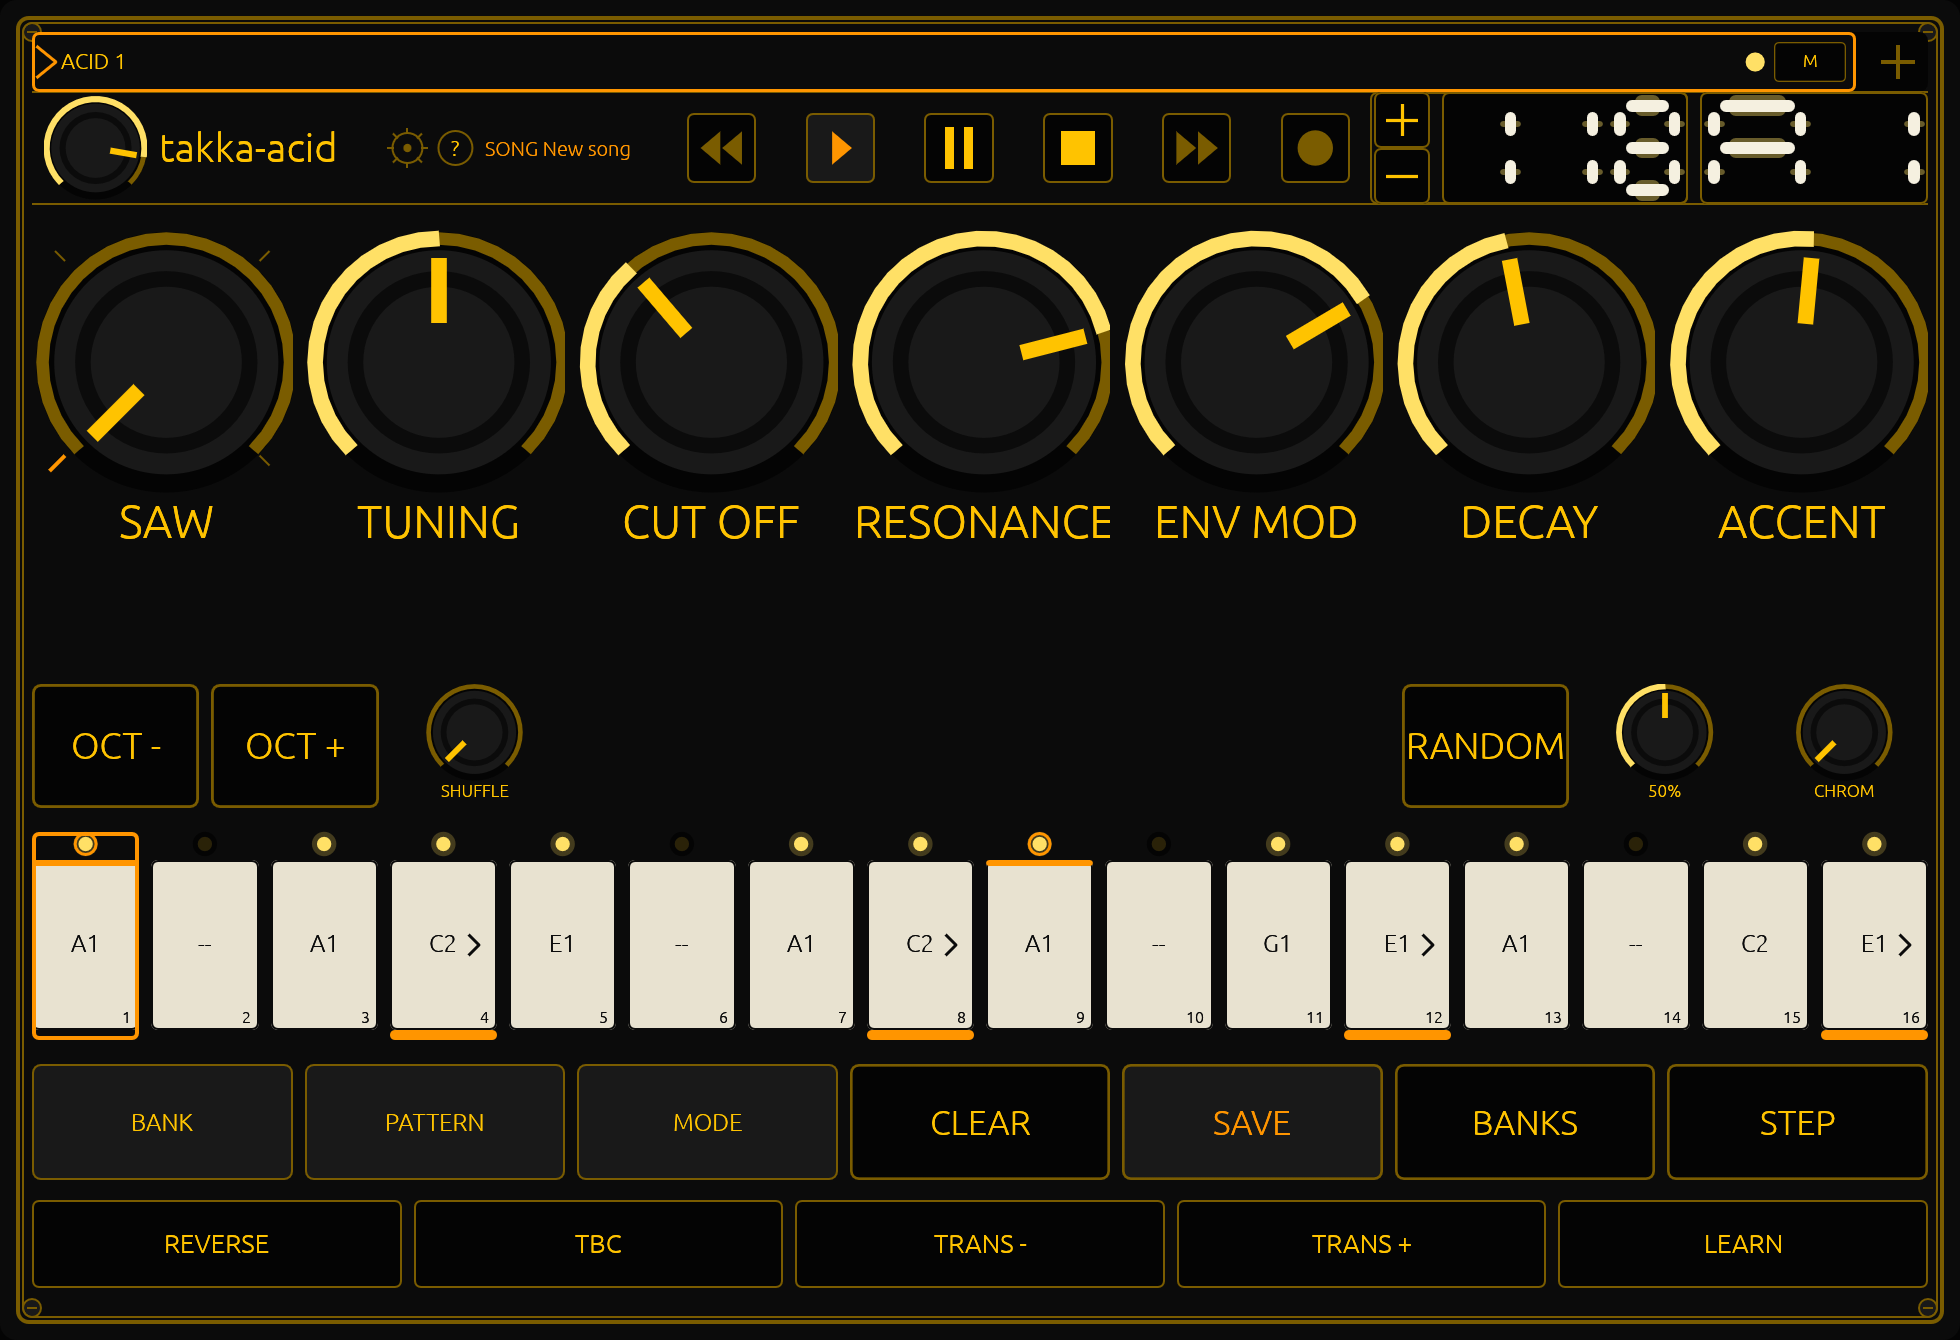
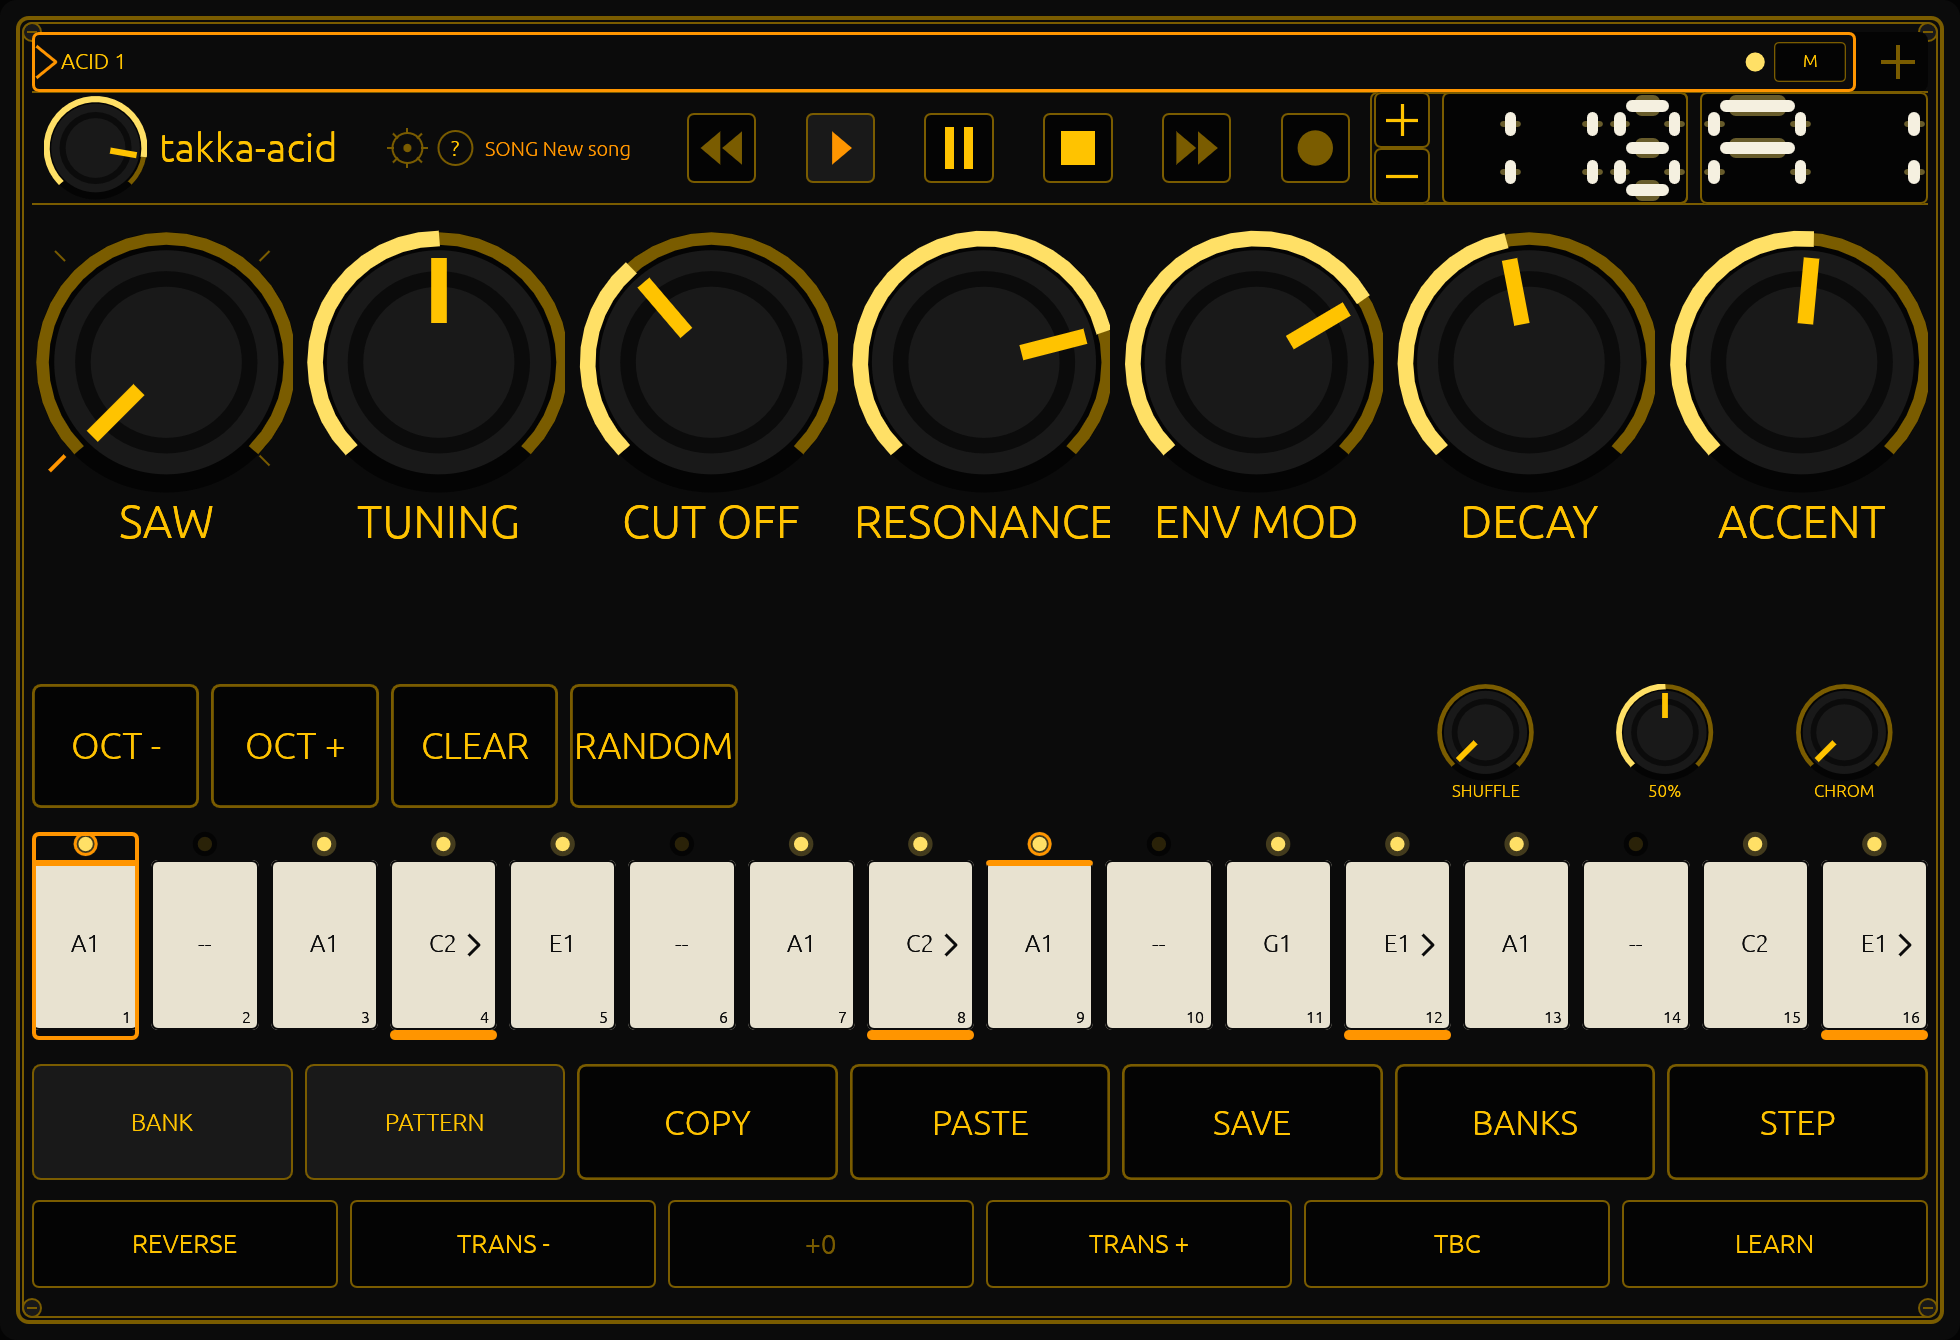
docs(guide): the book describes the instrument the phase built
The phase review's fifth P1, and its list read as a work order.

Every sentence it named now matches the code: the deck is the transport (03, 04, 09, 17, 18), pause is a state and space is
play/pause (09, 17, 20), the transpose and its readout are the bottom row's (04, 20), the session name carries the save state in
its colour and there is no word (03, 04, 10, 20), `BANKS` replaced `SONGS` everywhere including the browser's own sections (04,
05, 12, 20), and the keyboard table gains `,` `.` `R` as drawn-but-unwired with the deck's `PLAY`/`PAUSE` owning the space bar.

`check.sh` gained the facts that make a regression fail: `BANKS`, `PAUSE`, `REVERSE`, `TRANS -`, `COPY`, `PASTE`.

Pictures: `songs-card.png` is `banks-card.png` and retaken (its title, `DEMO BANKS`, `MY BANKS`), and first-sound, running, the
bottom row and the switch row are retaken at 1960 x 1340 to match the two-row keypad.

And the retake caught a real bug: the clickable session name used `song-name`, the id the card's name field already owned, so
egui drew its **widget-id collision** warning over the card. The name is `song-title` now, and the picture is the proof.

diff --git a/rust/crates/acid-app/src/ui/mod.rs b/rust/crates/acid-app/src/ui/mod.rs
@@ -549,7 +549,11 @@ pub fn draw_panel(state: &mut PanelState, shared: &SharedState, ui: &mut egui::U
         };
         // The name is a door as well as a label: the bank browser is how a session is loaded and saved, and the icons that
         // used to open it were cut in round 3a for room the deck needed. A label that answers a click is the cheapest way back in.
-        let response = ui.interact(label, ui.scope_id().with("song-name"), egui::Sense::click());
+        let response = ui.interact(
+            label,
+            ui.scope_id().with("song-title"),
+            egui::Sense::click(),
+        );
         if response.hovered() {
             response
                 .clone()

diff --git a/docs/guide/src/20-reference.md b/docs/guide/src/20-reference.md
@@ -30,7 +30,10 @@ Three tables and the files: every gesture, the factory controller map, and the w
 |---|---|
 | `A W S E D F T G Y H U J K` | play a chromatic scale; with `shift` or `STEP`, write the note to the selected step |
 | `Z` / `X` | octave down / up, two either way |
-| `space` | start / stop, same as `RUN` / `STOP` |
+| `space` | play / pause, same as `PLAY` / `PAUSE` |
+| `,` | step the playhead back a bar (drawn, not wired yet) |
+| `.` | step the playhead on a bar (drawn, not wired yet) |
+| `R` | record (drawn, not wired yet) |
 | `left` / `right` | move the selection one step |
 | `shift+left` / `shift+right` | previous / next pattern |
 | `shift+up` / `shift+down` | note up / down a step |
@@ -42,9 +45,10 @@ Three tables and the files: every gesture, the factory controller map, and the w
 | `F3`, or the caret on the selected cell | the device card |
 | `Ctrl+1` … `Ctrl+4` | put that device on the panel |
 | `Ctrl+C` / `Ctrl+V` | copy the pattern on the panel / paste one into it |
-| `escape` | close the topmost card — the picker, the device card, settings, help, the songs card — then give up on a `LEARN` |
+| `escape` | close the topmost card — the picker, the device card, settings, help, the bank browser — then give up on a `LEARN` |
 
-**The panel's own keys:** `RUN` `STOP` `TEMPO -` `TEMPO +` `LEARN` on the transport row; `CLEAR` `SAVE` `SONGS` `STEP` in
+**The panel's own keys:** `REVERSE` `TRANS -` `TRANS +` `TBC` `LEARN` in the bottom row; `CLEAR` `RANDOM` in the performance row
+beside the octave keys; `SAVE` `BANKS` `STEP` `COPY` `PASTE` in
 the switch row (`BANK` `PATTERN` `MODE` are engraved and do nothing yet); `OCT -` `OCT +` `RANDOM` on the performance row.
 **The strip above the panel:** a click on a cell selects that device, its `M` mutes it, and `+` at the right end adds one.
 
@@ -74,12 +78,13 @@ has to be reached before it takes over.
 **The strip** above the top strip holds a cell per device: its name, a lamp while it runs, its `M` mute, and `+` at the
 right end.
 
-**The top strip** holds four things: the lamp inside the wordmark's corner, the song name in the band's left cluster, its plate lit while unsaved, the whole name and its state in its tooltip, and the pattern
+**The top strip** holds the volume knob and the wordmark, the settings gear and the help dot, the song name — amber while unsaved,
+plain silk once written, the whole name and its state in its tooltip — the tape deck, the tempo stepper, and the pattern
 and tempo wells at the right.
 
 | Word | Where | Meaning |
 |---|---|---|
-| `SAVED` / `UNSAVED` | by the wordmark | whether what is on screen is on disk |
+| the song name's colour | after the `?` | amber: unsaved; plain silk: on disk |
 | `SONG <name>` | the middle | the session's name; `SONG untitled` when it has none |
 | a notice | the middle | something just happened — `saved Acid 2`, `saved a copy as Acid 2`, `could not import: …` — for a few seconds, then the name returns |
 | `A1` … `H8` | the pattern well | the pattern playing |
@@ -124,7 +129,7 @@ OFF` / `MUTE ON`, `REMOVE`, `CLOSE`.
 | `failed: <reason>` | the stream is not running, and why |
 | `CLOSE` | put the card away |
 
-**The songs card:** `SONGS`, `DEMO SONGS`, `MY SONGS`, `SAVE`, `SAVE A COPY`, `NEW`, `IMPORT`, `EXPORT`, `CLOSE`, and the
+**The bank browser:** `BANKS`, `DEMO BANKS`, `MY BANKS`, `SAVE`, `SAVE A COPY`, `NEW`, `IMPORT`, `EXPORT`, `CLOSE`, and the
 `x` / `SURE` on each of your own rows.
 
 **The help card** has four sections — `STEPS`, `KEYBOARD`, `MIDI`, `NOTES`.

diff --git a/docs/guide/src/03-first-sound.md b/docs/guide/src/03-first-sound.md
@@ -3,19 +3,20 @@
 Start it as [`02-install`](02-install.md) says. The window opens on a line that already plays: the **Slow Acid** demo, loaded under the
 name a new song starts with, `SONG New song`.
 
-Nothing about that line is on disk yet. The strip says so in one word, **`UNSAVED`**, sitting just right of the wordmark
+Nothing about that line is on disk yet. The song name says so by its colour — amber while there are unsaved changes, plain
+silk once it is written — sitting in the band's left cluster, after the `?`
 `takka-acid`, with the gear and the `?` beside it. That word is the only thing on the face the machine uses to tell you
 whether your work is safe, so learn to glance at it:
 
-- `UNSAVED` — you have changed something since the last save. The session is written when you close the app, so a lost
+- the name in **amber** — you have changed something since the last save. The session is written when you close the app, so a lost
   session means it was lost there — by a crash, or by a kill — not by leaving the window open.
-- `SAVED` — what is on screen is what is on disk.
+- the name in **plain silk** — what is on screen is what is on disk.
 
 ## Make it play
 
-Press **`RUN`**, in the bottom row, or press the space bar — `SPACE` is the same key as `RUN` / `STOP`.
+Press **`PLAY`**, in the tape deck at the top of the panel, or press the space bar — `SPACE` plays and pauses.
 
-The line starts. `RUN` stays lit while it plays and `STOP` lights instead the moment you stop it. Press `SPACE` again to
+The line starts. `PLAY` stays lit while it plays and `PAUSE` lights instead the moment you pause it. Press `SPACE` again to
 stop: the line holds where it is, and the next start begins from the top of the bar.
 
 That is the entire first lesson. The demo is a real pattern: you can pull it apart step by step, change the sound under
@@ -28,7 +29,7 @@ things ask twice:
 
 - **`CLEAR`** empties the pattern. The first click arms it — the key reads `CLEAR?` for a few seconds — and a second
   click inside that window empties it. Editing a step drops the arm: a confirmation is about the pattern as it was.
-- **`NEW`**, in the songs card, throws away the session and starts from the starter phrase. While your session is
+- **`NEW`**, in the bank browser, throws away the session and starts from the starter phrase. While your session is
   unsaved it asks `SURE?` first.
 - **Loading** a song over an unsaved session, and **deleting** a song, each take a second click as well.
 

diff --git a/docs/guide/src/04-the-face.md b/docs/guide/src/04-the-face.md
@@ -18,7 +18,8 @@ another. [`18-a-rack-of-devices`](18-a-rack-of-devices.md) is that page.
 
 - **The volume knob**, in the left corner, standing alone — the level out of the machine, not part of the sound.
 - **The wordmark** `takka-acid`.
-- **`SAVED` / `UNSAVED`**, the lamp: whether what you see is on disk. [`03-first-sound`](03-first-sound.md) explains the two words.
+- **the song name**, in the band's left cluster: amber while you have unsaved changes, plain silk once the session is on
+  disk. [`03-first-sound`](03-first-sound.md) explains the two states.
 - **The gear** and the **`?`** — the two round keys that open the settings card and the help card.
 - **`SONG`** and the session's name, in the band's left cluster, on a lit plate while there are unsaved changes. It is the song's name, not a file path; a session with no name shows
   what a new song is called.
@@ -55,7 +56,7 @@ nothing for it to glide into.
 ![The switches](img/switches.png)
 
 Seven keys. Four of them work today: **`CLEAR`** empties the pattern (in two clicks), **`SAVE`** writes it to disk,
-**`SONGS`** opens the songs card, and **`STEP`** turns on the mode where the computer keyboard types a line instead of
+**`BANKS`** opens the bank browser, and **`STEP`** turns on the mode where the computer keyboard types a line instead of
 playing it. The other three — **`BANK`**, **`PATTERN`** and **`MODE`** — are engraved and silent: there is nothing behind
 them yet, and the bank is moved from the keyboard or a learned controller instead ([`11-the-bank`](11-the-bank.md)).
 
@@ -63,7 +64,8 @@ them yet, and the bank is moved from the keyboard or a learned controller instea
 
 ![The transport](img/transport.png)
 
-**`RUN`**, **`STOP`**, **`TEMPO -`**, **`TEMPO +`**, **`LEARN`**. The first four are the clock; `LEARN` is how a MIDI
+**`REVERSE`**, **`TRANS -`**, **`TRANS +`**, the transpose's readout between them, **`TBC`** and **`LEARN`**. The first two are
+this device's direction and the rack's transpose; `LEARN` is how a MIDI
 controller gets taught a control ([`14-midi`](14-midi.md)).
 
 ## The panel is one piece, and it scales

diff --git a/docs/guide/src/12-songs-and-demos.md b/docs/guide/src/12-songs-and-demos.md
@@ -1,15 +1,15 @@
 # Songs and demos
 
-`SONGS` opens the card that keeps your work: a name field with `SAVE` and `SAVE A COPY` beside it, two lists, and four
+`BANKS` opens the browser that keeps your work: a name field with `SAVE` and `SAVE A COPY` beside it, two lists, and four
 keys along the bottom.
 
 ## The two lists
 
-**`DEMO SONGS`** are the five that ship inside the app: **Slow Acid**, **Hard Techno Acid**, **Blues**, **Rock** and
+**`DEMO BANKS`** are the five that ship inside the app: **Slow Acid**, **Hard Techno Acid**, **Blues**, **Rock** and
 **Funk**. They are read-only — there is no way to overwrite one — and each is a patch plus eight patterns in `A1` to `A8`
 ([`11-the-bank`](11-the-bank.md)). Clicking one loads it as a **new** song: named `New song`, not yet on disk, `UNSAVED`.
 
-**`MY SONGS`** are the songs you have named. Click a row to load one. If what is on screen has unsaved changes, the first
+**`MY BANKS`** are the saves you have named. Click a row to load one. If what is on screen has unsaved changes, the first
 click only arms the row — it prints `<name> - click again to replace` — and the second click loads it.
 
 Every row has a small `x` at its right end. One click turns it into `SURE`; the second deletes the song. The demos have no
@@ -25,7 +25,7 @@ format's limit this round, and the picker says so on its own line: `NAMES AND EX
 ## What a save does to a name
 
 This is the part worth reading twice, because it is where work is kept or lost. **Saving is manual by default** — the
-lamp says `UNSAVED` until you do it — and what a save writes depends entirely on the name field.
+name stays amber until you do it — and what a save writes depends entirely on the name field.
 
 | The name field holds | What `SAVE` does |
 |---|---|

diff --git a/docs/guide/src/09-playing.md b/docs/guide/src/09-playing.md
@@ -2,8 +2,9 @@
 
 ![The transport](img/transport.png)
 
-**`RUN`** starts the line and **`STOP`** stops it; the space bar is both. The transport says what is happening rather than
-what happened last: `RUN` is lit while the line runs, `STOP` is lit while it is stopped.
+**`PLAY`** starts the line, **`PAUSE`** stops the clock and keeps the bar, and **`STOP`** puts it back at the top. The space bar
+plays and pauses. The deck says what is happening rather than what happened last: `PLAY` is lit while the line runs, `PAUSE`
+while it is paused.
 
 ![The panel while the transport runs](img/running.png)
 
@@ -11,7 +12,7 @@ what happened last: `RUN` is lit while the line runs, `STOP` is lit while it is 
 
 The tempo readout sits in the top strip, in BPM, from **40–300**. Two things move it a BPM at a time:
 
-- `TEMPO -` and `TEMPO +`, one press each way.
+- the small `-` and `+` either side of the tempo's number, one BPM each way.
 - `up` and `down` on the computer keyboard.
 
 There is a third way in, and it is not a nudge: a learned controller fader throws the tempo wherever you leave it
@@ -42,7 +43,8 @@ A stopped line lights no position: the row shows which steps carry notes and not
 
 ## Starting and stopping
 
-`STOP` leaves the pattern where it is, but `RUN` does not resume from there — it starts again from step 1, with the clock
+`PAUSE` leaves the step where it is and `PLAY` carries on from it; `STOP` does not resume — the next play starts again from
+step 1, with the clock
 on the downbeat, so the first note you hear after a start is always the first note of the bar. Nothing is quantised: your
 presses land when you press them.
 

diff --git a/docs/guide/src/img/README.md b/docs/guide/src/img/README.md
@@ -33,7 +33,7 @@ the build: the pictures are committed PNGs, and this note is what makes them rep
 | `img/running.png` | the transport running, `RUN` lit rather than `STOP` | `space` from the first-sound state |
 | `img/help-card.png` | the help card over the panel | `F1` |
 | `img/settings-card.png` | the settings card, `MIDI IN` naming the port in use | `F2` |
-| `img/songs-card.png` | the songs card: `New song`, the five demos, an empty `MY SONGS` | click `SONGS` |
+| `img/banks-card.png` | the songs card: `New song`, the five demos, an empty `MY SONGS` | click `SONGS` |
 | `img/device-card.png` | the device card for `ACID 1`: `COLOUR BLACK`, one port, `MUTE OFF` | `F3` |
 | `img/picker.png` | the picker: the `ACID` row and `NAMES AND EXTRA DEVICES ARE NOT SAVED YET` | click `+` at the strip's right end |
 | `img/theme-list.png` | the card for `ACID 1` with the theme list open over it, the dot on `BLACK`, eleven of the twenty-two rows and the scroll thumb | `F3`; click `COLOUR`; park the pointer away from the knobs before grabbing, or their tooltip lands in the picture |

diff --git a/docs/guide/src/18-a-rack-of-devices.md b/docs/guide/src/18-a-rack-of-devices.md
@@ -42,7 +42,7 @@ Each device is a whole machine, not a subset of one:
   controllers (that is its card's business, [`19-a-devices-card`](19-a-devices-card.md));
 - its own **name**, and its own **colour**.
 
-What they share is the clock and the sound card. `RUN` starts them all, the tempo is one tempo, and a device added while the
+What they share is the clock and the sound card. `PLAY`, in the deck, starts them all, the tempo is one tempo, and a device added while the
 line is running comes in on the step the others are on rather than at the top of the bar. Two devices playing one pattern
 therefore sound like one machine with two voices; two devices with different patterns sound like two machines playing
 together.

diff --git a/docs/guide/src/17-trouble.md b/docs/guide/src/17-trouble.md
@@ -5,7 +5,7 @@ This page is the order to check things in.
 
 ## There is no sound at all
 
-1. **Is the line running?** `RUN` lit, `STOP` dark. `SPACE` toggles it.
+1. **Is the line running?** `PLAY` lit, `PAUSE` dark. `SPACE` plays and pauses; `STOP` puts the bar back at the top.
 2. **Does the pattern have notes?** A pattern of rests is silent and looks almost the same as a pattern — the keycaps
    print `--` and their LEDs are dark. Press `RANDOM` and see whether a line comes back; `CLEAR` cannot help: it empties a pattern, it does not fill one.
 3. **Is the filter shut?** Cutoff at the bottom with a sine wave is a very quiet machine. Turn `CUT OFF` up.

diff --git a/docs/guide/src/10-performance-row.md b/docs/guide/src/10-performance-row.md
@@ -6,7 +6,7 @@ to touch mid-bar, and all of it can be heard without stopping.
 ## `OCT -` and `OCT +`
 
 Transpose the whole pattern an octave down or up. This is not a temporary shift: the notes themselves are rewritten, so
-`UNSAVED` comes on and a save keeps the new register. While the line runs, the steps you have not reached yet play in the
+the song name turns amber and a save keeps the new register. While the line runs, the steps you have not reached yet play in the
 new octave; a step already triggered keeps the note it played.
 
 Neither key stops at the edge of the range. Walk a line far enough up or down and its notes fall outside what the voice

diff --git a/docs/guide/src/05-the-three-cards.md b/docs/guide/src/05-the-three-cards.md
@@ -26,9 +26,9 @@ card's business. [`13-settings`](13-settings.md) walks the card.
 
 **Out:** `CLOSE` in the bottom-right corner, `Escape`, or a click outside the card.
 
-## Songs — `SONGS`
+## Banks — `BANKS`
 
-![The songs card](img/songs-card.png)
+![The bank browser](img/banks-card.png)
 
 The card with the most on it: the name field and `SAVE` / `SAVE A COPY`, the five demo songs, your own songs, and `NEW`,
 `IMPORT`, `EXPORT` and `CLOSE`. [`12-songs-and-demos`](12-songs-and-demos.md) walks that one.
